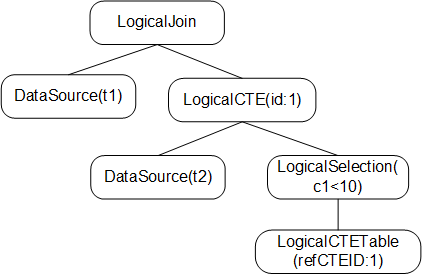
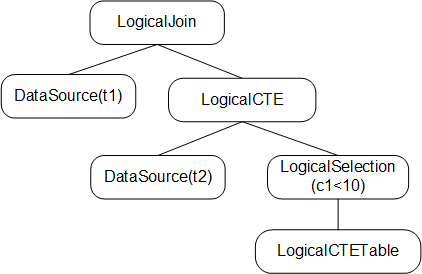
update doc

diff --git a/docs/design/2021-04-18-common-table-expression.md b/docs/design/2021-04-18-common-table-expression.md
@@ -4,9 +4,9 @@ This is a template for TiDB's change proposal process, documented [here](./READM
 
 # Proposal: Support Common Table Expression
 
-- Author(s):     [@guo-shaoge](https://github.com/guo-shaoge) [@wjhuang2016](https://github.com/wjhuang2016) 
-- Last updated:  2021-04-18
-- Discussion at: https://github.com/pingcap/tidb/issues/17472 <!-- https://github.com/pingcap/tidb/issues/XXX -->
+- Author(s): [@guo-shaoge](https://github.com/guo-shaoge), [@wjhuang2016](https://github.com/wjhuang2016)
+- Discussion PR: https://github.com/pingcap/tidb/pull/24147
+- Tracking Issue: https://github.com/pingcap/tidb/issues/17472
 
 ## Table of Contents
 
@@ -30,7 +30,7 @@ This proposal describes the basic implementation of Common Table Expression(CTE)
 
 ## Motivation or Background
 
-CTE is introduced in SQL:1999. It's a temporary result set which exists within a statement. You can reference it later in the statement.
+CTE was introduced in SQL:1999. It's a temporary result set which exists within a statement. You can reference it later in the statement.
 It's similar to derived tables in some way. But CTE has extra advantages over derived tables.
 
 1. CTE can be referenced multiple times.
@@ -47,7 +47,7 @@ There are two kinds of CTE:
     SELECT cte1.c1, cte2.c2 FROM cte1, cte2 WHERE cte1.c1 = cte2.c2 AND cte1.c1 = 100;
     ```
 2. recursive CTE, which can be used to do hierarchical queries. Recursive CTE normally consists of the seed part and the recursive part.
-   Seed part will generate the origin data, the remaining computation will be done by recursive part.
+   Seed part will generate the origin data, the remaining computation will be done by the recursive part.
 
     ```
     WITH RECURSIVE cte1 AS (
@@ -86,54 +86,102 @@ So we will add a map to record all CTE's subplan, these subplans will only be op
 ```Go
 type LogicalCTE struct {
 	logicalSchemaProducer
-	isDistinct bool
-	seedPartPlanID int
-	recursivePartPlanID int
+
+	cte       *CTEClass
+	cteAsName model.CIStr
+}
+
+type CTEClass struct {
+	IsDistinct bool
+	seedPartLogicalPlan      LogicalPlan
+	recursivePartLogicalPlan LogicalPlan
+	IDForStorage int
+	LimitBeg uint64
+	LimitEnd uint64
 }
 ```
 
-`LogicalCTE` is logical operator for CTE:
-1. `isDistinct` is true if CTE is recursive and `UNION [DISTINCT]` is used to connect the seed part and the recursive part.
-2. `seedPartPlanID` is the plan id of the seed part's logical plan. We will add a map[PlanID]Plan in stmt ctx to record plans used by CTE.
-    Different references of the same CTE will use same seed/recursive part's plan.
-3. `recursivePartPlanID` is the plan id of the recursive part's logical plan.
+`LogicalCTE` is the logical operator for CTE. `cte` is a member of `CTEClass` type.
+The content of `CTEClass` will be the same if different CTE references point to the same CTE.
+
+The meanings of main members in CTEClass are as follows:
+1. `IsDistinct`: True if UNION [DISTINCT] and false if UNION ALL.
+2. `seedPartLogicalPlan`: Logical Plan of seed part.
+3. `recursivePartLogicalPlan`: Logical Plan of recursive part. It will be nil if CTE is non-recursive.
+4. `IDForStorage`: ID of intermediate storage.
+5. `LimitBeg` and `LimitEnd`: Useful when limit is used in recursive CTE.
 
 ```Go
 type LogicalCTETable struct {
     logicalSchemaProducer
-    refCTEID int
+
+	name         string
+	idForStorage int
 }
 ```
-`LogicalCTETable` will read the temporary result set of CTE. `refCTEID` points to the corresponding `LogicalCTE`.
+`LogicalCTETable` will read the temporary result set of CTE. `idForStorage` points to the intermediate storage.
 
 #### Physical Operator
-`PhysicalCTE` and `PhysicalCTETableReader` will be added corresponding to `LogicalCTE` and `LogicalCTETable`.
+`PhysicalCTE` and `PhysicalCTETable` will be added corresponding to `LogicalCTE` and `LogicalCTETable`.
 
 #### Executor
-`CTEExec` and `CTETableReaderExec` will be added corresponding to `PhysicalCTE` and `PhysicalCTETableReader`.
 
-#### CTEStorage
 ```Go
-type CTEStorage interface {
-    OpenAndRef() bool
-    DerefAndClose() (is_closed bool, err error)
-    Add(chk *Chunk, iter int) error
-    GetIterChunkIds(iter int) ([]int, error)
-    GetChunk(chkId int) (*Chunk, error)
+type CTEExec struct {
+	baseExecutor
+
+	seedExec      Executor
+	recursiveExec Executor
+
+	resTbl     cteutil.Storage
+	iterInTbl  cteutil.Storage
+	iterOutTbl cteutil.Storage
+
+	hashTbl baseHashTable
 }
 ```
-`CTEStorage` will be added as a member of `CTEExec` and `CTETableReaderExec`.
-`CTETableReaderExec` reads data of a specific iteration and returns to its parent operator for calculation.
-Then `CTEExec` reads the calculation result and writes to `CTEStorage`.
 
-Since there will be multiple executors using one `CTEStorage`, we use a ref count to record how many users currently there are.
-When the last user calls Close(), the `CTEStorage` will really be closed.
+`CTEExec` will handle the main execution. Detailed execution process will be explained later.
+1. `seedExec` and `recursiveExec`: Executors of seed part and recursive part.
+2. `resTbl`: The final output is stored in this storage.
+3. `iterInTbl`: Input data of each iteration.
+4. `iterOutTbl`: Output data of each iteration.
+5. `hashTbl`: Data will be deduplicated if UNION [DISTINCT] is used.
 
-1. `OpenAndRef()`: Open this `CTEStorage`, if already opened, add ref count by one.
+```Go
+type CTETableReaderExec struct {
+	baseExecutor
+
+	iterInTbl cteutil.Storage
+	chkIdx    int
+	curIter   int
+}
+```
+
+`CTETableReaderExec` is used in recursive CTE. It will read `iterInTbl` and the output chunk will be processed in `CTEExec`.
+
+#### Storage
+```Go
+type Storage interface {
+    OpenAndRef() bool
+    DerefAndClose() error
+    Add(chk *chunk.Chunk) error
+    GetChunk(chkdIdx int) (*chunk.Chunk, error)
+    Lock()
+    Unlock()
+}
+```
+
+`Storage` is used to store the intermediate data of CTE. Check the `resTbl`, `iterInTbl` and `iterOutTbl` in `CTEExec`.
+
+Since there will be multiple executors using one `Storage`, we use a ref count to record how many users currently there are.
+When the last user calls Close(), the `Storage` will really be closed.
+
+1. `OpenAndRef()`: Open this `Storage`, if already opened, add ref count by one.
 2. `DerefAndClose()`: Deref and check if ref count is zero, if true, the underlying storage will be truly closed.
 3. `Add()`: Add chunk into storage.
-4. `GetIterChunkIds()`: Get all chunk ids for specific iteration.
-5. `GetChunk()`: Get chunk by chunk id.
+4. `GetChunk()`: Get chunk by chunk id.
+5. `Lock()` and `Unlock`: `Storage` may be used concurrently. So we need to add a lock.
 
 ### Life of a CTE
 #### Parsing
@@ -141,21 +189,18 @@ In parsing phase, definition of CTE will be parsed as a subtree of the outermost
 
 #### Logical Plan
 The parsing phase will generate an AST tree, which will be used to generate `LogicalCTE`. This stage will complete the following steps:
-1. Build logical plans of seed part and recursive part and store their plan id. The plans will be stored to a map in stmt ctx.
+1. Distinguish between seed part and recursive part of the definition of CTE.
 2. Do some validation checks.
 
-    2.1 mutual recursive(cte1 -> cte2 -> cte1) is not supported.
+    1 Mutual recursive(cte1 -> cte2 -> cte1) is not supported.
 
-    2.2 column num of seed part and recursive part are same.
+    2 Column number of the seed part and the recursive part must be same.
     
-    2.3 all seed parts should follow recursive parts.
+    3 All seed parts should follow recursive parts.
 
-    2.4 recursive query blocks with UNION DISTINCT then UNION ALL are not supported.
+    4 recursive parts cannot include: `ORDER BY`, `Aggregate Function`, `Window Function`, `DISTINCT`.
 
-    2.5 recursive parts cannot include: `ORDER BY`, `Aggregate Function`, `Window Function`, `DISTINCT`.
-
-3. Recognize the same CTE. If there are multiple references to the same CTE, `seedPartPlanID` and `recursivePartPlanID` of these references should be same.
-   These plans will only be optimized only once.
+3. Recognize the same CTE. If there are multiple references to the same CTE.
 
 We use the following SQL to illustrate:
 ```SQL
@@ -167,8 +212,8 @@ The logical plan of above SQL will be like:
 ![logical_plan](./imgs/logical_plan.png)
 
 #### Physical Plan
-In this stage, the `LogicalCTE` will be converted to `PhysicalCTE`. We just convert logical plans of seed part and recursive part to its physical plan.
-Also `LogicalCTETable` will be converted to `PhysicalCTETableReader`.
+In this stage, the `LogicalCTE` will be converted to `PhysicalCTE`. We just convert logical plans of the seed part and the recursive part to its physical plan.
+Also `LogicalCTETable` will be converted to `PhysicalCTETable`.
 
 The Physical Plan will be like:
 
@@ -178,42 +223,51 @@ The Physical Plan will be like:
 Three structures will be constructed:
 1. `CTEExec`: Evaluate seed part and recursive part iteratively.
 2. `CTETableReaderExec`: Read result of previous iteration and return result to parent operator.
-3. `CTEStorage`: This is where the materialized results are stored. `CTEExec` will write it and `CTETableReaderExec` will read it.
+3. `Storage`: This is where the materialized results are stored. `CTEExec` will write it and `CTETableReaderExec` will read it.
 
 The executor tree will be like:
 
 ![executors](./imgs/executors.png)
 
 #### Execution
-The implementation of `CTEExec` is as follows. It first checks whether `CTEStorage` is filled, if not, it will compute seed part and recursive part to fill `CTEStorage`.
-So the `CTEStorage` will only be filled by first executed `CTEExec`, and other `CTEExec` which references to the same `CTEStorage` just reads it.
+The following pseudo code describes the execution of `CTEExec`:
 
 ```Go
 func (e *CTEExec) Next(req *Chunk) {
-    // 1. the first executed CTEExec will be responsible to fill storage.
+    // 1. The first executed CTEExec will be responsible for filling storage.
+    e.storage.Lock()
+    defer e.storage.Unlock()
     if !e.storage.Done() {
-        // 1.1 compute seed part.
-        // 1.2 compute recursive part iteratively.
+        // 1.1 Compute seed part and store data into e.iterInTbl.
+        for {
+            // 1.2 Compute recursive part iteratively and break if reaches termination conditions.
+        }
         e.storage.SetDone()
     }
-    // 2. return chunk in e.storage
+    // 2. Return chunk in e.resTbl.
 }
 ```
 
-The filling of `CTEStorage` is done by `CTEExec` and `CTETableReaderExec` together. The following figure describes the process.
+Only the first `CTEExec` will fill the storage. Others will be waiting until the filling process is done.
+So we use `Done()` to check at the beginning of execution.
+If the filling process is already done, we just read the chunk from storage.
+
+The filling of `Storage` is done by `CTEExec` and `CTETableReaderExec` together. The following figure describes the process.
 
 ![cte_computation](./imgs/cte_computation.png)
 
-The data of iter_0 is generated by computing seed part and stored into `CTEStorage`. Data of iter_i is generated as follows:
-1. `CTEExec` calls child's next() method, then `CTETableReaderExec` will read iter_i-1 data from `CTEStorage`.
-2. Data is returned to `Selection`.
-3. `Selection` filter data and return it to `CTEExec`.
-4. `CTEExec` stores the result to `CTEStorage`, and the result labeled as iter_1 data.
+1. Compute the `SeedExec` and all output chunks will be stored into `iterInTbl`, which will be the input data of next iteration.
+2. Compute the `RecursiveExec` iteratively. `iterInTbl` will be read by `CTETableReaderExec` and its output will be processed by executors in `RecursiveExec`.And finally the data will be put into `iterOutTbl`.
+3. At the end of each iteration, we copy all data from `iterOutTbl` to `iterInTbl` and `resTbl`. So the output of the previous iteration will be the input of the next iteration.
+4. Iteration will be terminated if:
 
-The above steps will continue to iterate until:
-1. No data is generated by the recursive part.
-2. Iteration number reaches `cte_max_recursion_depth`.
-3. Execution time reaches `max_execution_time`
+    1. No data is generated in this iteration or
+    2. Iteration number reaches `@@cte_max_recursion_depth` or
+    3. Execution time reaches `@@max_execution_time`.
+
+Data in storage will be spilled to disk if memory usage reaches `@@tidb_mem_quota_query`. `MemTracker` and `RowContainer` will handle all the spilling process.
+
+Also we use a hash table to de-duplicate data in `resTbl`. Before copying data from `iterOutTbl` to `resTbl`, we use a hash table to check if there are duplications.
 
 ## Test Design
 
@@ -225,15 +279,16 @@ The above steps will continue to iterate until:
 4. Use CTE in UPDATE/DELETE/INSERT statements.
 5. CTE name conflicts with other table names.
 6. Join CTE with other tables/CTE.
-7. Use expression with CTE.
+7. Use expressions with CTE.
 
 ### Scenario Tests
 
 We should test CTE used together with other features:
 1. Use CTE with PREPARE/EXECUTE/PlanCache.
-2. Use CTE with partition table.
+2. Use CTE with a partition table.
 3. Stale read.
 4. Clustered index.
+5. SPM/Hint/Binding.
 
 ### Compatibility Tests
 
@@ -241,14 +296,14 @@ None
 
 ### Benchmark Tests
 
-A basic performance test should be given in specific scenario.
+A basic performance test should be given in a specific scenario.
 The memory usage, disk usage and QPS should be reported.
 
 ## Impacts & Risks
 
 CTE is a new feature and it will not affect the overall performance.
 But for now we only use `Materialization` to implement non-recursive CTE.
-In some scenario, the performance may not be as good as implementations which use `Merge`.
+In some scenarios, the performance may not be as good as implementations which use `Merge`.
 
 ## Investigation & Alternatives
 
@@ -264,13 +319,13 @@ which will be spilled to disk if the size is too large. The computation steps fo
 
 But different system use different ways to try to optimize:
 1. Try to postpone materialization.
-3. Pushdown predicates to reduce the size of temporary table.
+3. Pushdown predicates to reduce the size of the temporary table.
 
 ## Unresolved Questions
 
 None
 
 ## Future Work
-1. Support `Merge` and related hint(merge/no_merge).
-2. Optimize `Materialization`, pushdown predicates to materialized table.
-2. MPP support. `CTEExec` will be implemented in TiFlash.
+1. Support `Merge` and related hints(merge/no_merge).
+2. Optimize `Materialization`, pushdown predicates to the materialized table.
+2. MPP support. `CTEExec` will be implemented in TiFlash later. But SQL used in CTE definition still can be pushed to TiFlash.
